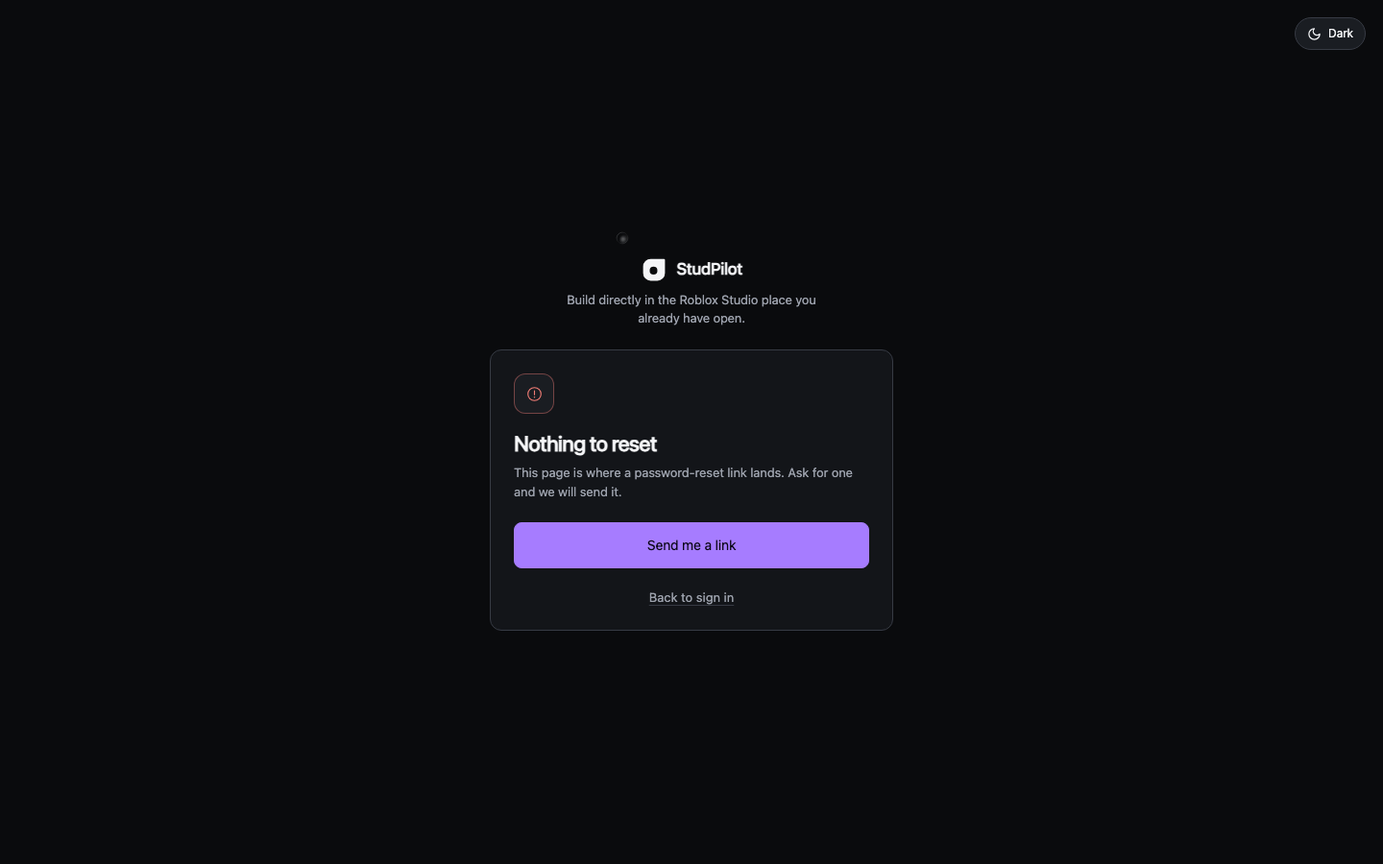
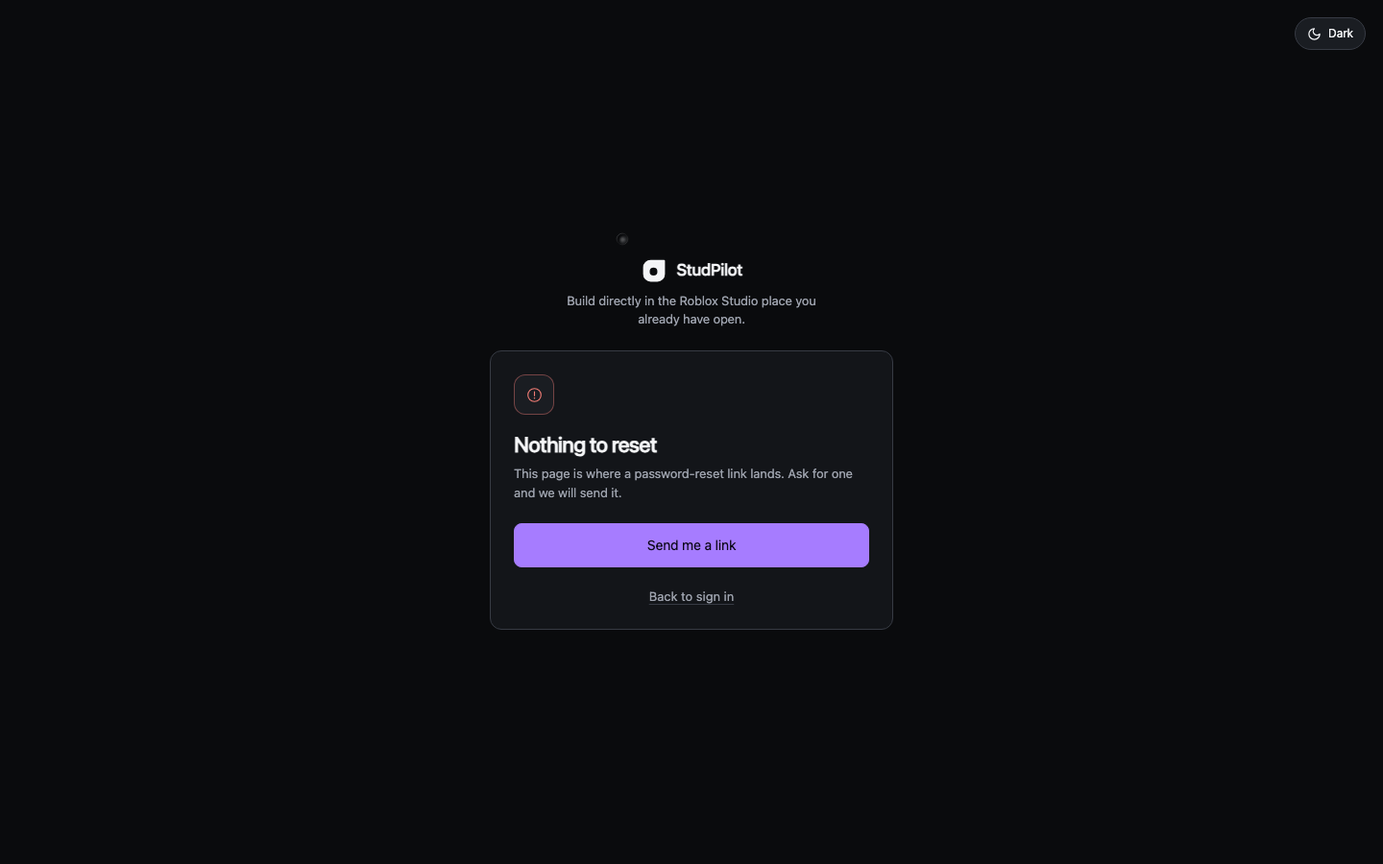
M2 2.3 fix 3 proof: decisions 12.11, the test ledger's fix cycle 3 section, and the retaken screenshot
12.10 and the cycle 2 ledger note are corrected where they said the worker restarts a counter under a surviving run id (it cannot, and the key is a defence); 12.4 says
what 12.10 says the page can know. 47 planted breaks (46 red, one green on purpose) and the counts, from this clone, are in the ledger. Screenshot 10 is retaken
(the primary anchor is 46px); 01d, 01e and 03b were compared pixel by pixel and kept.

diff --git a/planning/proof/M2/DECISIONS.md b/planning/proof/M2/DECISIONS.md
@@ -479,8 +479,9 @@ live project is listed as unverified. The tests for each item are in `TEST-LEDGE
 - **What it says with no frame (fix cycle 1).** It follows the run and Studio, because "appear here while StudPilot builds" is false under a
   finished turn and told nobody what to do: running with Studio connected, "Studio screenshots appear here while StudPilot builds"; running
   with Studio not connected, "Connect Studio to see screenshots here while StudPilot builds"; finished, Studio not connected, "No
-  screenshots were taken for this request. Connect Studio to see them next time." (**reworded in fix cycle 2, 12.10: the page cannot know that none were taken**); finished with Studio connected, no box at all (the
-  request simply took none, and there is nothing to do). The enlarged view's Earlier and Later use the workspace's outline button, with a
+  screenshots were taken for this request. Connect Studio to see them next time." (**reworded in fix cycle 2, 12.10: the page cannot know that none were taken**); finished with Studio connected, no box at all (the turn holds none
+  and there is nothing to do; the page cannot tell a request that took none from a reload that cleared them, 12.10); and, from cycle 3 (12.11), no line at all
+  while the page has not yet heard whether Studio is connected. The enlarged view's Earlier and Later use the workspace's outline button, with a
   visible disabled look and the focus ring (they were 18px of bare text, because the shared `.btn` chrome is scoped to other pages).
 - **What the page promises, and only that.** The enlarged view says "Shown only in this tab and kept only while it is open. This page
   does not save or send them." It does not say "no model ever sees it": that is the worker's business, and the worker's `look` path
@@ -628,9 +629,28 @@ carry are on main as one squash (#32), so it now holds only its own app commits;
 
 | Finding | What was decided or done |
 |---|---|
-| A new playtest frame can be dropped as a replay | The worker's playtest counter (`playtestSeq`, `apps/worker/src/do/session.ts`) is a plain field of the Durable Object, reset only when a playtest begins, while the playtest run is stored; after an eviction in the middle of a playtest the same run id arrives with seq 1, 2, ... and the page, which keyed a playtest frame on run and counter, took those new pictures for the ones it held. **The key is now run, counter and the capture time** (`sameFrame`, `lib/studio-shots.ts`). A true replay carries the capture's own time, so an exact replay of the whole ring still adds nothing. Pixels are not part of the playtest key (a long string compared on every replayed frame): two different pictures with one run, one counter and one millisecond cannot come from the worker, because a new Durable Object life restarts the counter after time has moved on. Not run against a real eviction (no worker was touched): the failing sequence is reproduced as the checker described it. |
+| A new playtest frame can be dropped as a replay | **Corrected in 12.11: the case this row describes cannot happen in the worker today; the key stays as a defence.** The page keyed a playtest frame on its run and counter (`playtestRunId`, `seq`). The check had said the worker's counter (`playtestSeq`, `apps/worker/src/do/session.ts`) restarts after a Durable Object eviction while the run id survives, and that new frames then arrive as seq 1, 2, ... under a run id the page holds; that was taken from the finding and was not read in the worker. **The key is now run, counter and the capture time** (`sameFrame`, `lib/studio-shots.ts`). A true replay carries the capture's own time, so an exact replay of the whole ring still adds nothing. Pixels are not part of the playtest key (a long string compared on every replayed frame): within one run the worker gives every frame the next counter value, so two frames of one run never share one. |
 | "No screenshots were taken for this request" can be false | It can: frames are held in the page's memory only and a reloaded conversation carries its tool steps, not its frames, so a build that did capture Studio, opened again after a reload with Studio closed, was told none were taken. **The line now says only what the page knows:** "No screenshots to show for this request: they are kept only while this tab stays open, so a reload clears them. To see them next time, connect Studio and keep this tab open during the request." The constant is `SHOTS_NONE_HERE` (it was `SHOTS_NONE_TAKEN`). The line is still drawn only when Studio is not connected; with Studio connected and nothing held, nothing is drawn (as in 12.4). A source test holds the fact the sentence rests on (the page sets its frames from the socket and from the development fixture, nowhere else), so if a later change keeps frames across a reload, the test fails and the sentence must be re-worded with it. **Not decided here:** keeping frames across a reload at all (it would need storage or a worker read, and `SHOTS_KEPT` says this page saves nothing). |
 | The Roblox link's rule also restyled the six primary anchor buttons | `.auth-page a.btn { border: 1px solid var(--control-line); line-height: 20px }` was meant for the Roblox link and also reached every `<Link className="btn btn-primary btn-block">` (`/confirm`, `/reset`, the recovery and the check-email screens): their accent border became the faint hairline and 47.7px became 46px. **The rule is on a class of its own, `auth-roblox-link`, which only the Roblox anchor wears.** Measured in Chromium on `/app/reset`: with the old rule `1px solid rgba(255, 255, 255, 0.12)` and 46px; now `1px solid rgb(166, 124, 255)` and 47.7px; the Roblox, Google and Discord buttons still measure `1px solid rgb(55, 59, 68)`, 20px, 46px. The restated test checks the property (no rule of the sheet gives a border or a line height to every anchor button; one element wears the class) and not the rule's text. |
 | `LEGAL-CLAIMS.md` cited `auth-pages.tsx` one line off, and nothing guarded it | The six cites are corrected, and **every line cite into a file of `apps/web/src` now carries the symbol it points at in the same code span** (`` `auth-pages.tsx:854 supabase.auth.signUp(` ``). `apps/web/tests/legal-claims-cites.test.mjs` reads each one: the text must be on the cited line (or one of a range's lines), a cite with no symbol fails, and a bare `:NNN` continuation fails; the message says where the text is now. It covers 27 cites in six files (10 of them `auth-pages.tsx`) (`auth-pages.tsx`, `age-gate.ts`, `auth-providers.ts`, `identity-card.tsx`, `roblox-signin.ts`, `settings.tsx`). **Four `settings.tsx` cites (display name, the Roblox card, the improvement-data row and its mutation) were already stale on main (`settings.tsx:2148` is a blank line there); they are repaired because the guard covers every app file.** The worker's cites are not read (their lanes own them), and a file name the worker shares (`turnstile.ts`, `index.ts`) is ambiguous and is skipped. What the guard cannot do: a symbol that is also on the cited line for another reason passes, and it says where the code is, not that the sentence beside it is still true. |
 
 **Left as it was and said so:** `empty-state-model.ts`'s help links (the site lane repoints them), the legal pages and `apps/site` (other lanes own them).
+
+### 12.11 Fix cycle 3 (2026-10-05): what the fourth check of this branch changed
+
+The cycle 3 check (a checker, and a regression hunter whose findings two skeptics each confirmed) found two claims in the cycle 2 work that were false or unguarded, four minor
+items and four guards that did not go red. The counts, the planted breaks and the screenshots are in `TEST-LEDGER.md`, "Fix cycle 3". Nothing in the worker, the legal pages or
+`apps/site` was touched.
+
+| Finding | What was decided or done |
+|---|---|
+| The playtest-counter restart that the cycle 2 key guards against cannot happen in the worker | **Confirmed by reading the worker, and the rationale is withdrawn.** A frame is published under a playtest run id by one place only, `PlaytestBus.captureFrame` (`session.ts`); it returns false when the run's frame gate (`this.frameRate`) is null, and `canCapture()` is false then too. The gate is declared null and assigned only in `begin()`, which also mints a new run id and zeroes `playtestSeq`; the boot restore brings back the stored run (`playtestRunBacking`) and neither the gate nor the counter; the whole playtest loop runs inside one `run_and_check` call, which calls `begin()` once. So after an eviction nothing more is published under the old run id, and a later playtest has a new one: "the same run id with seq 1 again" is a state the worker does not reach, and the cycle 2 note that it was "reproduced as the checker described it" reproduced a state the worker cannot be in. The comment on `sameFrame`, the test's header, its comment and its title, and the 12.10 row now say it is **a defence** that stops the key from mistaking a new capture for a replay if a counter ever restarts under a run id the page holds, and that it answers nothing the worker does today. The same note had said "one millisecond"; the Studio plugin stamps `capturedAt` in whole seconds (`os.time() * 1000`, `StudioCapture.luau`), and the comparison is exact, so no window of any size is right. **Not decided here and not done:** making the restart real by persisting the gate and the counter across an eviction (a worker change with its own suite; nobody asked for it, and the page's key already survives it). |
+| `THE LINE RESTS ON THIS` did not go red when frames were kept across a reload | It counted `setFrames(` calls and used a regex that cannot cross the `)` of `() =>`, so `useState<StudioFrame[]>(() => JSON.parse(sessionStorage.getItem(...)))` with an effect that wrote it back kept the frames across a reload and the whole web suite stayed green (the checker ran exactly that). **Restated as the property, read from the syntax tree:** the one state declaration starts from the literal `[]`; its setter is only ever called, twice (the development fixture under `if (MOCK_MODE)`, and the `studio_frame` message through `appendFrame`); its value is read once, as a plain member of the object the hook returns; and the workspace takes it by its own name with no default. Any new reader or setter fails it, which is meant: when it fires the review is whether the change keeps frames across a reload, and if it does the finished-turn sentence is re-worded with it. The checker's break (lazy initializer plus an effect) and seven more are planted in `TEST-LEDGER.md`. |
+| The finished-turn "connect Studio" line can show while the page is still loading | It could: `studio.connected` starts false and becomes true only when the socket says so, so after a reload a finished build turn drew the two-line "To see them next time, connect Studio" prompt and then took it back. **The hook now keeps `studio.known`**: false until the worker has said, on the open socket, whether Studio is connected (`hello` or `studio_status` sets it), and false again when the socket closes (a reconnect is a time nothing is heard). The workspace hands it to the latest turn and the strip draws **no line at all** while it is false, finished or running; once it is true the lines are what they were. A frame the page holds is shown whatever it has heard. The mock app is always known. The hook is not run under `node --test` (it needs more of React than the harness stands in for), so its three settings are read from the syntax tree and the decision, the strip and the turn are run. |
+| Primary anchor buttons 47.7px tall beside 46px `<button>`s | **Fixed, and the cycle 2 rule that blocked it is gone.** A `<button>` has a 20px line from the `button` element rule (`system.css`); an anchor inherits the page's 1.55, which at 14px is 21.7px, so the check-email card's "Send it again" (a button) sat 1.7px under "Go to sign in" (an anchor). `.auth-page a.btn-block { line-height:20px }` gives every full-width anchor the button's line; the Roblox rule keeps only the hairline. **This changes the six primary anchor buttons from 47.7px to 46px**; their accent border is untouched (measured, `TEST-LEDGER.md`). That is a decision: cycle 2 had asked that they keep their height, which meant the height they had on main, and on main they were 1.7px taller than the button next to them. If the owner prefers the old height, delete the one rule and the test's line check. |
+| The Roblox-anchor matcher did not see a child combinator | It split on whitespace and needed three exact container names. **Replaced by a small selector matcher** (`couldReach`, `auth-providers.test.mjs`): it tokenises a selector, reads `>`, `+` and `~` as combinators, handles `:not`, `:is`, `:where`, attributes and pseudo-elements, and asks whether the selector could match a primary anchor button standing in the page's real chain (page, form column, card, anchor), over-approximating what it cannot model. It is run on 18 selectors that must reach and 13 that must not (`.auth-page .auth-card > a` among the first), and on four that reach a primary `<button>` too and five that reach the anchor alone. The rule it enforces changed with it: **no rule may give the anchor a border that the primary `<button>` does not also get**, which is the defect, and not "no rule may touch an anchor button", which blocked a legitimate fix. A design change that styles both alike (`.auth-page .btn-primary { border-color: ... }`) is therefore allowed on purpose. The line a `<button>` has and the button's hairline are read from `system.css`, not written in the test. |
+| 12.4 and the test header still gave a reason 12.10 says the page cannot know | Both now say "once a finished turn holds none and Studio is connected", as the strip's source does. |
+| Four guards that did not go red | `1g` (a time window of 5 s): the test now asserts that captures 1 ms, 1 s and 4.999 s apart are distinct, so a window of any size under five seconds goes red. `2e`: the item above. `3j` (a `.btn-primary` border rule): **not a defect, left green by design**: it styles the primary button and the primary anchor alike, which cannot make them differ. `4e` (a cite written outside a code span): a scan for cites into an app file outside a span or deep inside one now fails (`unreadCites`), run on the document and on a sample with three of them. |
+| A process note from the checker: its first copy partly deleted another checker's working copy | Not a defect in the branch. This lane's probes this cycle were kept in their own folder (`probes/app/fix2r2/`) and nothing under `probes/app/check1/` was touched. |
+
+**Left as it was and said so:** `empty-state-model.ts`'s help links, the legal pages and `apps/site` (other lanes own them); the worker (no change, so the worker suite was not run).

diff --git a/planning/proof/M2/TEST-LEDGER.md b/planning/proof/M2/TEST-LEDGER.md
@@ -192,9 +192,67 @@ test uses frames with no playtest run, so the break is caught by the new playtes
 measures `1px solid rgb(166, 124, 255)` and 47.7px; with the cycle 1 rule put back as a style, `1px solid rgba(255, 255, 255, 0.12)` and 46px (the checker's figures). The three
 provider buttons on the sign-in and sign-up screens still measure `1px solid rgb(55, 59, 68)`, 20px line, 46px. Screenshots: `app-local/` (`03b` retaken, `10` added).
 
-**What this cycle cannot show.** No worker was touched, so the Durable Object eviction is reproduced as the checker described it (the same run id arriving with seq 1 and 2 after
+**What this cycle cannot show.** **(Corrected in fix cycle 3, below: the state this sentence says was reproduced, the same run id arriving with seq 1 and 2 after seq 1..3, is one the worker cannot be in. It was built by hand, and the key is a defence, not the answer to an eviction.)** No worker was touched, so the Durable Object eviction is reproduced as the checker described it (the same run id arriving with seq 1 and 2 after
 seq 1..3), not by evicting one. The finished-turn sentence is a statement of what the page keeps; nobody has been shown it. The cite guard says where the code is, not that the
 sentence beside a cite is still true, and a symbol that is on the cited line for another reason passes.
+
+### Fix cycle 3 (2026-10-05): the fourth check's findings
+
+The cycle 3 check (a checker, and a regression hunter whose two serious findings two skeptics each confirmed) is answered in `DECISIONS.md` 12.11. No worker, legal-page or
+`apps/site` file changed. The branch head the findings were made on is `10c2f409`.
+
+**Counts.** "Before" is the checker's record of `10c2f409`; "after" was measured in this clone with the same commands (every network fetch of the site build and its tests was
+refused: `NODE_USE_ENV_PROXY=1` with a dead proxy).
+
+| Suite | Before (`10c2f409`) | After |
+|---|---|---|
+| `cd apps/web && pnpm typecheck` | clean | clean |
+| `cd apps/web && node --test` | 2742 pass, 0 fail | **2747 pass, 0 fail** (+5: three new tests in `studio-shots.test.mjs`, one in `auth-providers.test.mjs`, one in `legal-claims-cites.test.mjs`; three more were restated or replaced in place) |
+| `cd apps/web && pnpm build` | clean | clean |
+| `node scripts/check-app-bundle.mjs` | passes | passes (entry 144.6 kB gzipped, eager graph 270.2 kB across 4 files) |
+| `node --test tests/*.test.mjs` at the root | 661 tests: 643 pass, 2 fail, 16 skipped | the same: 661 tests, 643 pass, **2 fail**, 16 skipped. The two are the known `check-pixels.test.mjs` scratchpad-location failures ("THE CONTROL: against a SAME-ORIGIN baseline ..." and "against a baseline with NO provenance ..."): they fail because this clone sits in a scratchpad, identically on main, and were not touched |
+| `pnpm --filter @studpilot/site build` then `cd apps/site && node --test tests/*.test.mjs` | 381 pass | build clean (21 pages); 381 pass, 0 fail |
+| `cd packages/design && node --test` | 165 pass | 165 pass, 0 fail |
+| `node scripts/check-old-names.mjs` | CLEAN | CLEAN (0 violations) |
+
+No worker file changed, so the worker suite was not run. Per-file test counts after: `studio-shots.test.mjs` 30 (was 27), `auth-providers.test.mjs` 25 (24), `legal-claims-cites.test.mjs` 4 (3).
+
+**Restated tests (the property each one keeps)**
+
+| Test | Why it had to change | Property kept |
+|---|---|---|
+| `studio-shots.test.mjs`, "THE LINE RESTS ON THIS" | Counted `setFrames(` and used a regex that cannot cross a `)`: a lazy initializer plus an effect kept frames across a reload and nothing went red | Read from the syntax tree: the one frames state starts from `[]`; its setter is only called, twice (the fixture under `if (MOCK_MODE)`, and the `studio_frame` message through `appendFrame`); its value is read once, as a plain returned member; the workspace takes it by its own name with no default. A tripwire, on purpose |
+| the same file, "the strip is mounted by the turn, and is the only thing that draws frames there" | Pinned the whole opening tag as text and the tag gained `studioKnown` | The strip is handed this run's frames, whether the run is going, and Studio's state, and nothing else (the exact set of four props), and the turn draws frames no other way |
+| the same file, the playtest-key test (renamed) | Its comment, header and title said the worker restarts its counter under a surviving run id, which it does not | The key still tells a new capture from a replay at the same run and counter, and an exact replay is still dropped; it now also asserts that captures 1 ms, 1 s and 4.999 s apart are distinct (a window of any size is wrong), and says plainly that it builds the case by hand |
+| `auth-providers.test.mjs`, the Roblox-anchor test | Its matcher split a selector on whitespace and needed three exact container names (a child combinator escaped), forbade a line height on every anchor button (which blocked making them match a `<button>`), and carried the 20px and the hairline as numbers | Only the Roblox anchor carries the hairline, and it is the button element rule's own; no rule gives a primary anchor a border that the primary `<button>` does not also get; every full-width anchor has the line a `<button>` has, read from `system.css`. The matcher is a small selector engine with its own self-test |
+
+**New guards, each run red first, then green.** The new tests were run against the cycle 2 source (HEAD's copy of the six source files this round changed, in a copy of the tree):
+five went red (the three `studio.known` tests, the restated mount test, the restated sheet test), as they should. "THE LINE RESTS ON THIS" stays green there, because the
+property is true of that code; the checker's own break is what it is proved against. Then 47 breaks planted by exact string replacement in a copy of the tree (the count of the
+string asserted, each file restored from the clone and checked byte-identical afterwards): **46 went red, and 1 stayed green on purpose.** The runner reports which test went red and
+its first assertion message was read for a sample (2b, 2g, c1, c3, c10, k7, 1b, g2) to see they fail for the reason named.
+
+| Item | Breaks planted (each red unless marked) |
+|---|---|
+| Frame key (6) | no capture time in the key; the time compared in a 5 s window (**the one the check found alive**); in a 1 s window; in a 1 ms window; playtest frames never equal; no counter in the key |
+| The line rests on this (10) | a third place sets the frames (storage); **the checker's break: a lazy `useState` initializer reading `sessionStorage` plus an effect writing it, no new `setFrames` call**; a lazy initializer alone; an eager call as the initial value; the setter handed to a helper; `useReducer` in place of `useState`; the hook returning the frames merged with a stored copy; the workspace giving them a default from storage; an effect that writes them to storage (the tripwire); the socket message setting them some way other than `appendFrame` |
+| Studio heard (10) | `hello` does not mark it; `studio_status` does not; a closed socket leaves it marked; the page starts out knowing; the mock never hears; the workspace does not hand the turn `studioKnown`; `shotsEmptyLine` ignores it; the turn does not pass it on; the strip does not pass it to the decision; a turn whose caller does not say is taken not to know |
+| The sheet (12) | the anchors lose the button line; a 21px line; **the checker's break, `.auth-page .auth-card > a` with a border**; the cycle 1 rule `.auth-page a.btn` back; `a[href]` with a border colour; `a:not(.auth-roblox-link)` with a border colour; the Roblox hairline not the button's; the Roblox rule on `a.btn`; a tight child combinator (`.auth-card>a.btn-primary`); a sibling rule on anchors alone; a longhand border on the anchors; and **`.auth-page .btn-primary { border-color }` (the check's `3j`), which stays green by design** because it styles the primary button and anchor alike and so cannot make them differ |
+| The matcher (5, in the test itself) | it stops reading `>`; ignores `:not(...)`; reads a pseudo-element as an element; ignores attribute selectors; forgets the containers. Each turns its own self-test red. (The pseudo-element one first stayed green: the break was dead code, because `::before` is already "unknown, not a match"; a `:before` and an `::after` sample were added and it went red.) |
+| Cites outside a code span (4) | a plain-prose cite; a cite deep inside a span; a bold cite (**the check's `4e`**); the scanner no longer blanking spans |
+
+**The check's four dead guards.** `1g`: red now (the 1 ms and 1 s cases); `2e`: red now (the break is `2b`); `3j`: not a defect, green by design (above); `4e`: red now (`g1` to `g3`).
+
+**Measured in a browser, not asserted by a test.** `/app/reset` in a headless Chromium on the local dev server (every non-local request aborted: 0 reached the network). The primary
+anchor measures `1px solid rgb(166, 124, 255)`, a 20px line and **46px** (it was 21.7px and 47.7px). The check-email card's pair, rebuilt on the page's own stylesheet (a `<button class="btn btn-block">`
+over the primary anchor, since that card needs a sign-up round trip): button `1px solid rgb(55, 59, 68)`, 20px, 46px; anchor 20px, 46px; with the line rule neutralised, the anchor measures 21.7px and 47.7px
+(the checker's figures). The Roblox, Google and Discord buttons on the sign-up and sign-in screens still measure `1px solid rgb(55, 59, 68)`, 20px, 46px each. Screenshots: `app-local/` (`10` retaken; the rest compared and kept, see its README).
+
+**What this cycle cannot show.** The socket hook is not run under `node --test` (it needs more of React than the harness stands in for), so `studio.known`'s four settings (initial, `hello`,
+`studio_status`, close) are read from the syntax tree, and what is run is the decision, the strip and the turn. Nobody watched a real reload with a real worker: the claim is that a page
+that has not heard says nothing, and it is held by those pieces, not by a reload. The guard on frames kept across a reload is a tripwire on the places a frame can enter or leave the hook;
+it cannot know that a new reader is harmless. The selector matcher over-approximates and models only a primary anchor in the page's one chain; a rule it cannot parse is "not a match", so an
+exotic selector could hide from it. The worker's restart of a counter was not reproduced because it does not happen; making it happen (persisting the gate and the counter) is not done.
 
 ### What these tests cannot show
 

diff --git a/planning/proof/M2/app-local/README.md b/planning/proof/M2/app-local/README.md
@@ -1,5 +1,11 @@
 # App screenshots, M2 step 2.3 (1440x900, dark)
 
+**Fix cycle 3 (2026-10-05) retook `10` (the full-width anchor buttons now take a `<button>`'s 20px line, so the primary anchor is 46px and not 47.7px, and the card
+under it moved up by 1.7px).** Nothing else here changed on screen: `01d`, `01e` and `03b` were re-shot on the final tree and compared pixel by pixel with the committed
+files: `01d` and `01e` differ in 81 and 83 pixels, all inside one 10 by 10 square above the logo (the animated dot), nowhere near the three buttons, and `03b` in 519
+pixels, in three 26-pixel-wide icons far from the strip (an animation), with the strip's sentence unchanged, so the committed files stay. The state cycle 3 added to the
+strip (no line at all until the page has heard whether Studio is connected) draws nothing, so it has no picture, and the mock app is always "heard".
+
 **Fix cycle 2 (2026-10-05) retook `03b` (the strip's line under a finished turn changed) and added `10` (a primary anchor button on the sign-in family's screens, which the
 cycle 1 hairline rule had changed and cycle 2 restored).** `01d` and `01e` were re-shot on the final tree and compared pixel by pixel with the committed ones: the three buttons
 (Roblox, Google, Discord) are unchanged (the only differing pixels, 82 and 97, are a ten-pixel animated dot above the logo and, on the sign-in screen, the card's rounded top
@@ -27,7 +33,7 @@ their projects, conversation, checkpoints and balances are fixtures for layout r
 | `05-pieces-settings-specimen.png` | The Pieces drawer with sample pieces, every one marked SPECIMEN. **Development only: a production build offers no button, command or drawer for it before M5** | mock / dev |
 | `08-enlarge-dialog-buttons.png` | The enlarged screenshot's Earlier (disabled, quiet) and Later (focused, with the ring), cropped to the buttons: 72x36 each. The picture itself is a fixture gradient and is not saved | mock with `?frames=1` |
 | `09-dashboard-project-menu.png` | A project's menu on the shelf: "Invite a friend to StudPilot" (was "Copy invite link") | mock |
-| `10-auth-primary-link-button.png` | A primary anchor button (`<Link className="btn btn-primary btn-block">`) on `/app/reset` with no link: the accent fill, **the accent border and 47.7px height** (measured `1px solid rgb(166, 124, 255)`, 47.7). With the cycle 1 rule `.auth-page a.btn` put back, the same button measured `1px solid rgba(255, 255, 255, 0.12)` and 46px | the real app (not mock), signed out |
+| `10-auth-primary-link-button.png` | A primary anchor button (`<Link className="btn btn-primary btn-block">`) on `/app/reset` with no link: the accent fill, **the accent border and 46px height** (measured `1px solid rgb(166, 124, 255)`, 20px line, 46). Before cycle 3 it was 47.7px (a 21.7px line against a `<button>`'s 20px); with the cycle 1 rule `.auth-page a.btn` put back it measured `1px solid rgba(255, 255, 255, 0.12)` | the real app (not mock), signed out |
 | `06a-connections-today.png` | Settings > Connections as it is today: no Google or Discord card | mock; the Roblox card's request is answered with a payload of the real shape (the mock app has no worker) |
 | `06b-connections-providers-preview.png` | The Google (connected) and Discord (not connected) cards | mock with `?providers=google,discord&linked=google` (dev-only flags): a preview, not today's state |
 | `06c-settings-share.png` | Settings > Share: the invite link and the "Made with StudPilot" line | mock |
